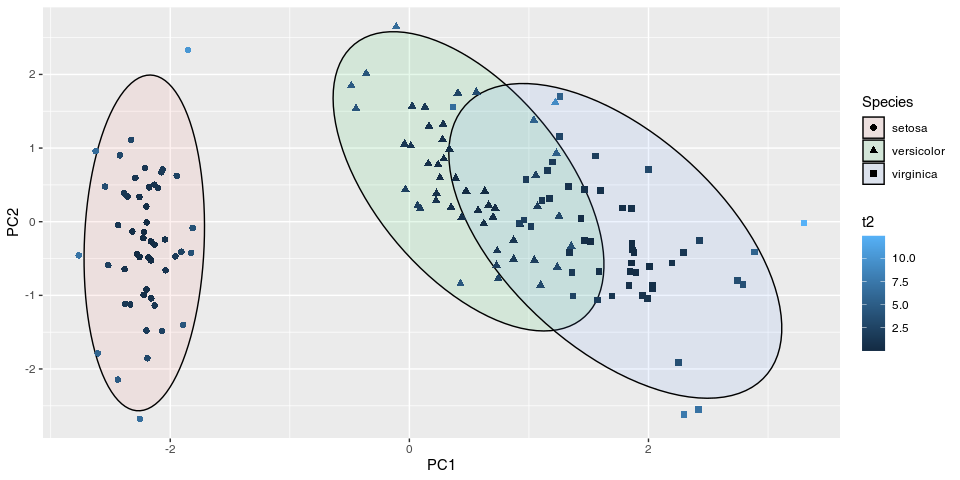
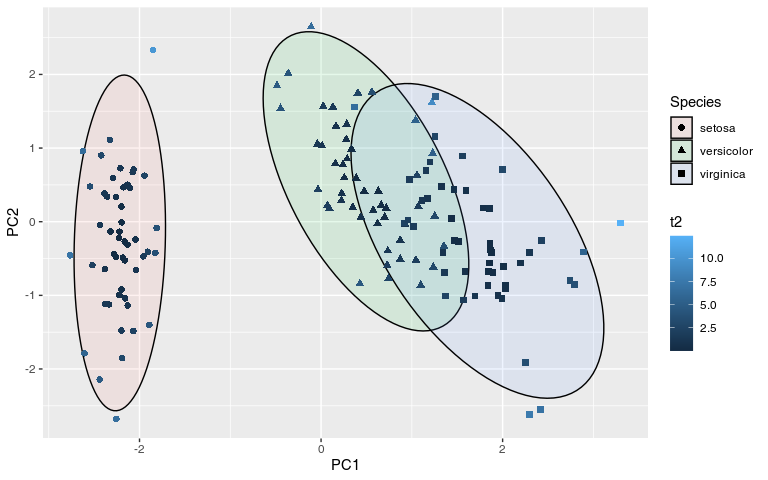
added autoplot and autolayer commands

diff --git a/README.md b/README.md
@@ -1,5 +1,5 @@
 
-# gghotelling
+# Hotelling’s T² Ellipses and Outlier Detection for ggplot2
 
 <!-- badges: start -->
 
@@ -7,8 +7,6 @@
 [![Codecov test
 coverage](https://codecov.io/gh/january3/gghotelling/graph/badge.svg)](https://app.codecov.io/gh/january3/gghotelling)
 <!-- badges: end -->
-
-Show Hotelling T² ellipses with ggplot2.
 
 Hotelling data ellipses are using the Hotelling T² distribution to
 create coverage regions for the distribution of the data, often used in
@@ -22,6 +20,14 @@ create data ellipses (much like the ones from `ellipse::ellipse()`), and
 also Hotelling data (?) ellipses. Unlike stat_ellipse(), it can also
 take the `fill` aesthetic for a visually pleasing representation of the
 ellipses.
+
+A lot of functionality overlaps with `ggfortify::ggbiplot()` (and by
+extension `autoplot.pca_class`), but this function is less flexible than
+a separate geom that you can add to the figure.
+
+Moreover, the package provides a `stat_hotelling_points()` function to
+compute the per-point Hotelling T² statistics, which can be used to
+identify and visualize multivariate outliers in scatter plots.
 
 My main motivation for creating this package was sorting out the
 different ellipse types and allowing the use of `fill` aesthetics for
@@ -116,7 +122,7 @@ ggplot(df, aes(PC1, PC2, group=Species, label=rownames(df))) +
                         outlier_only = TRUE)
 ```
 
-<img src="man/figures/README-unnamed-chunk-2-1.png" width="50%" style="display: block; margin: auto;" />
+<img src="man/figures/README-example3-1.png" width="50%" style="display: block; margin: auto;" />
 
 ``` r
 
@@ -129,4 +135,15 @@ ggplot(df, aes(PC1, PC2, group=Species, label=rownames(df))) +
                         outlier_only = TRUE)
 ```
 
-<img src="man/figures/README-unnamed-chunk-2-2.png" width="50%" style="display: block; margin: auto;" />
+<img src="man/figures/README-example3-2.png" width="50%" style="display: block; margin: auto;" />
+
+The package also defines `autoplot.prcomp` and `autolayer.prcomp` for
+convenient plotting of PCA plots. Note that `autoplot.prcomp` is also
+implemented in a more sophisticated way in the `ggfortify` package.
+
+``` r
+autoplot(pca, group = iris$Species) + 
+  autolayer(pca, group = iris$Species)
+```
+
+<img src="man/figures/README-example4-1.png" width="50%" style="display: block; margin: auto;" />
